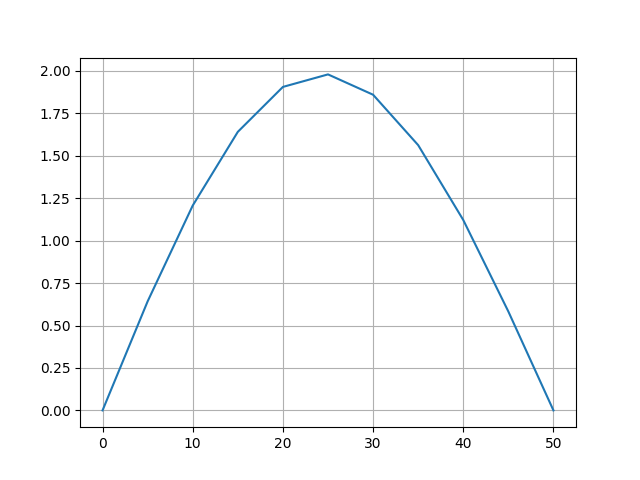
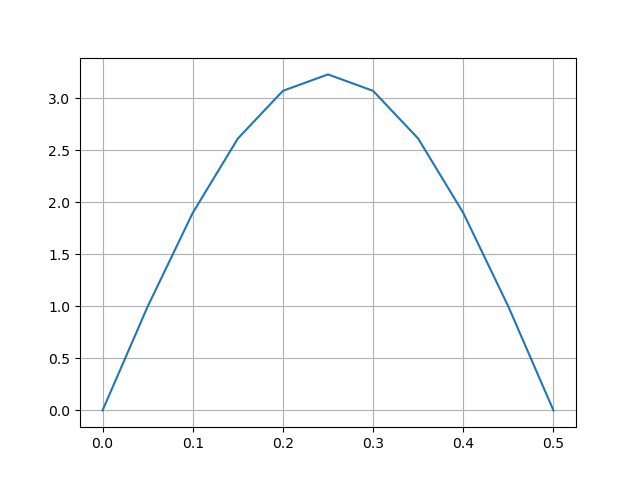
fixed phto

diff --git a/aula18.py b/aula18.py
@@ -17,7 +17,7 @@ x = [0,0.05,0.10,0.15,0.20,0.25,0.30,0.35,0.40,0.45,0.50]
 beta=alpha*dT/(dX**2)
 n = 0
 aux = t_list[:]
-while(n<100):
+while(n<104):
 
     for i in range(1,len(t_list)-1):
         
